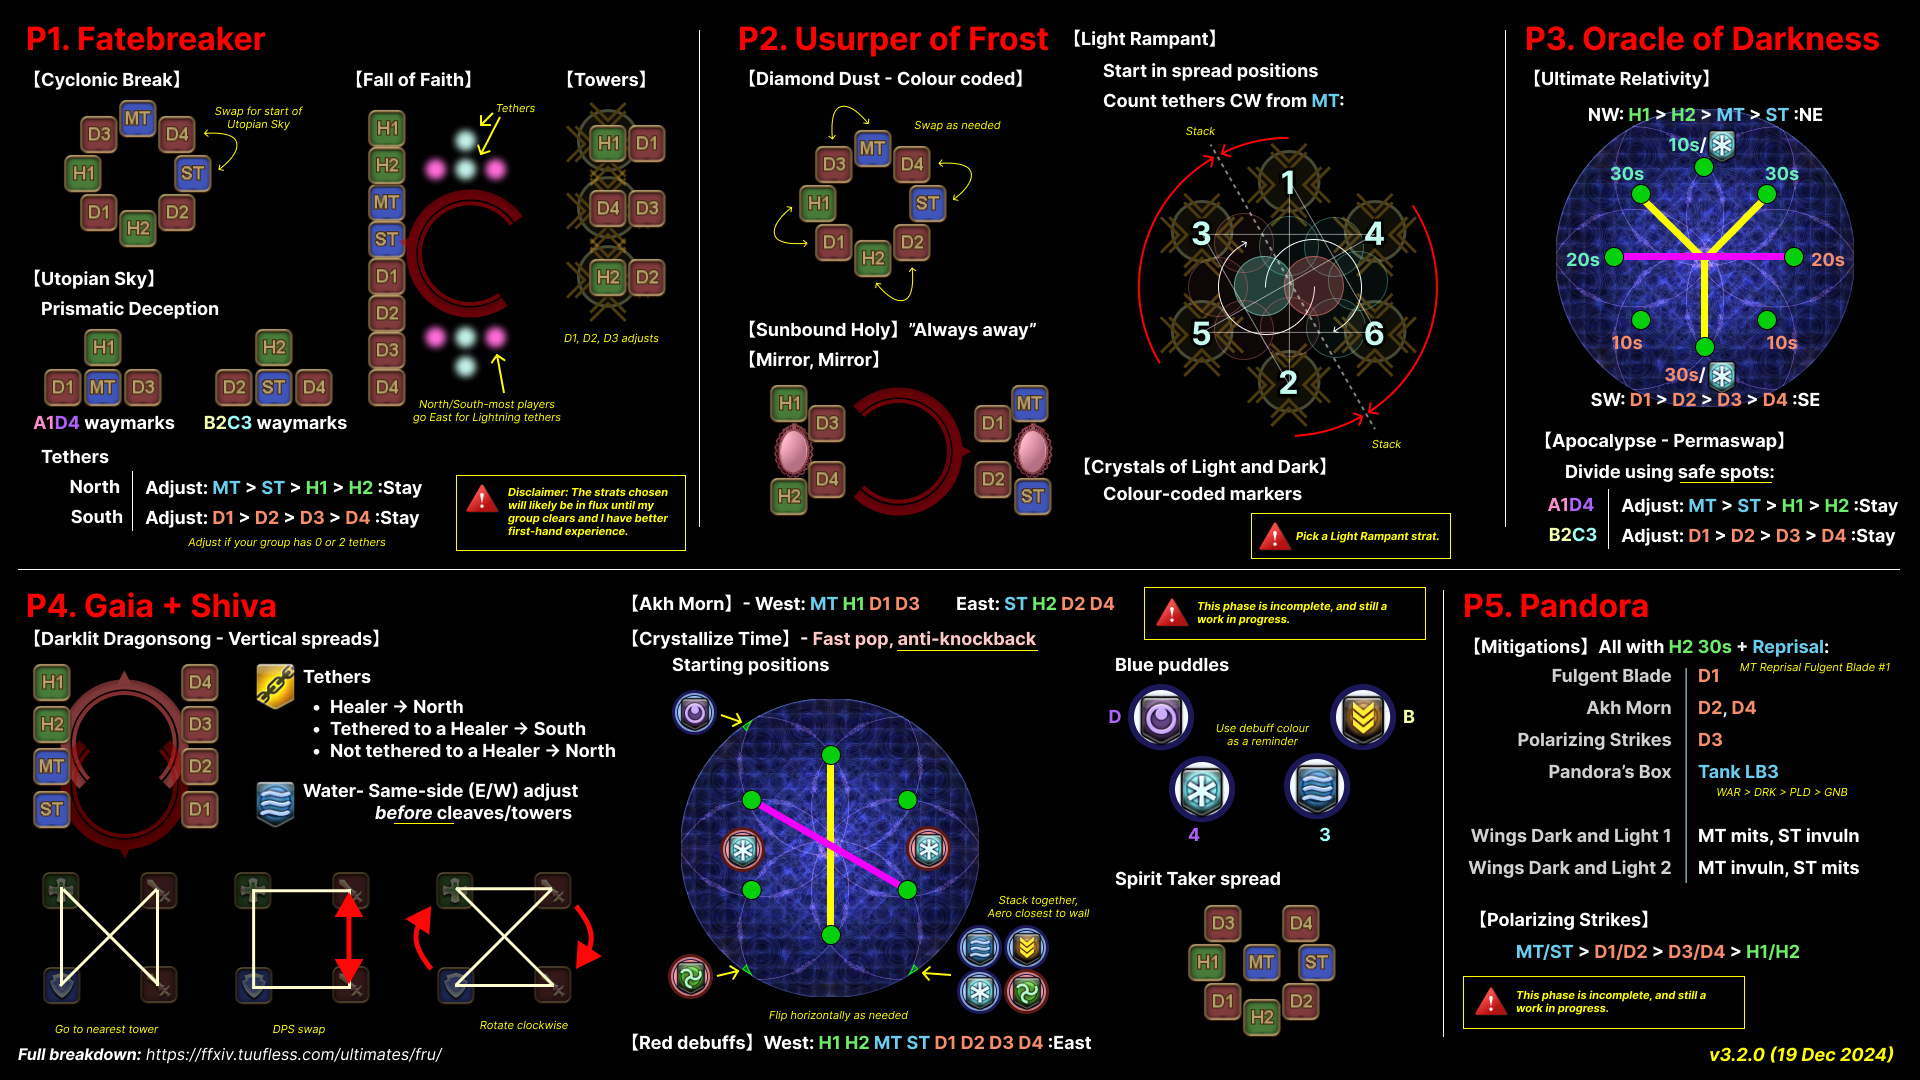
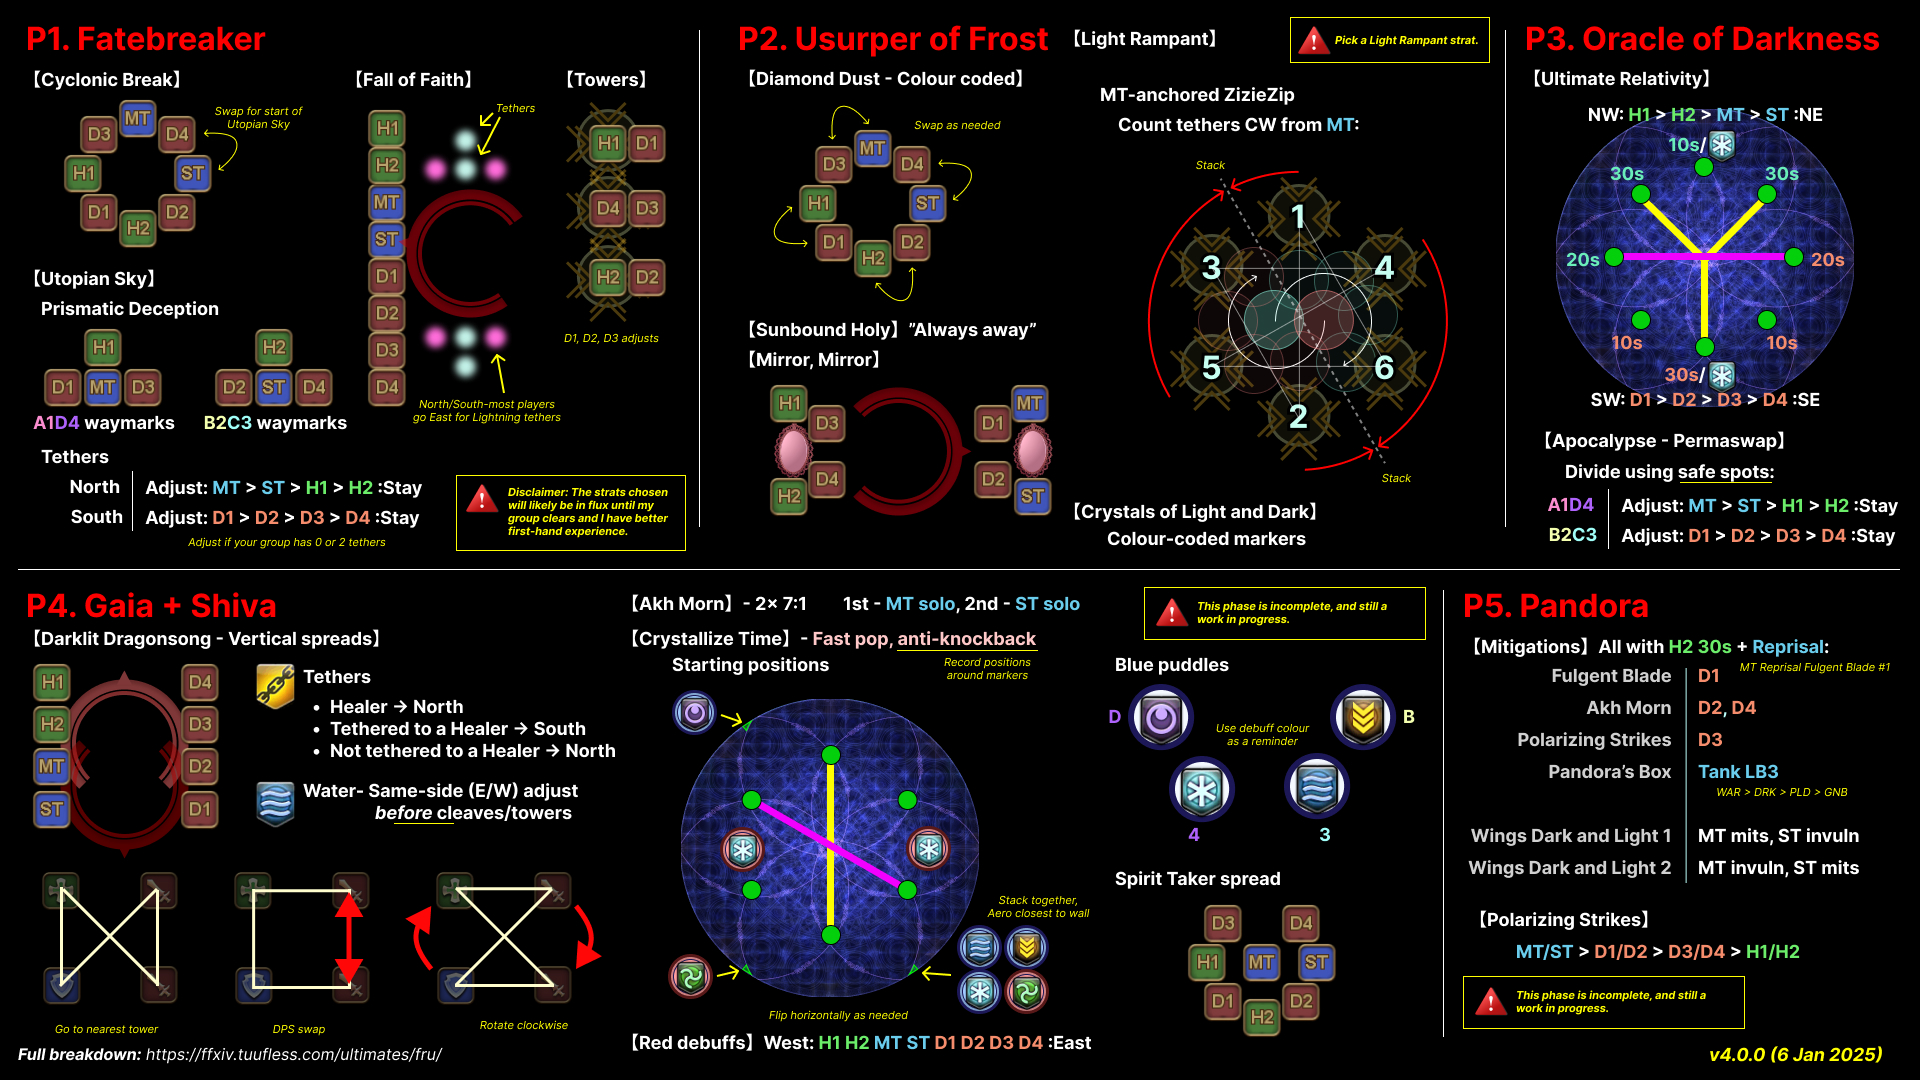
Add 7:1 Akh Morns

diff --git a/_ultimates/fru/04_gaia_and_shiva.md b/_ultimates/fru/04_gaia_and_shiva.md
@@ -1,6 +1,6 @@
 ---
 layout: default
-title: 4. Gaia and Shiva (WIP)
+title: 4. Gaia and Shiva v1.0
 parent: Lv 100. FRU (WIP)
 nav_order: 4
 has_children: false
@@ -8,10 +8,10 @@ has_toc: false
 permalink: /ultimates/fru/04_gaia_and_shiva/
 ---
 
-# Gaia and Shiva (WIP)
+# Gaia and Shiva v1.0
 
 This is version 1.0, that uses the vertical spread *Darklit Dragonsong* strat,
-and anti-KB for *Crystallize Time*.
+and anti-KB for *Crystallize Time* with 2x 7:1 Akh Morn stacks.
 
 <div style="background-color: #200 ; padding: 10px; border: 1px solid;">
 <p style="text-align:center"><b>Details may be missing, or subject to change
@@ -19,7 +19,9 @@ until I have better first-hand experience.</b></p>
 </div>
 
 - [**Darklit Dragonsong - Vertical spreads**](#darklit-dragonsong---vertical-spreads)
+- [**Akh Morn 1 - 7:1 MT solo**](#akh-morn-1---71-mt-solo)
 - [**Crystallize Time - fast pop, anti-kb**](#crystallize-time---fast-pop-anti-kb)
+- [**Akh Morn 2 - 7:1 ST solo**](#akh-morn-2---71-st-solo)
 - [**Frequently Asked Questions**](#frequently-asked-questions)
 
 The Usurper of Frost will respawn at either North or South, whichever is
@@ -249,6 +251,8 @@ We can now continue with the mechanic.
   </tr>
 </table>
 
+## Akh Morn 1 - 7:1 (MT solo)
+
 The two bosses will then teleport a bit West and East of the center for *Akh
 Morn* into *Morn Afah*.
 
@@ -257,9 +261,15 @@ Morn* into *Morn Afah*.
     <td width="50%">
       <p><b>12.</b> The two bosses target whoever has their hate with a 4-hit
       <em>Akh Morn</em> (which should be their respective tanks).</p>
+      <p>However, a tank can mitigate this to lower the damage on the party-
+      for this first <em>Akh Morn</em>, we have the MT split off.</p>
       <ul>
-        <li><b>West:</b> MT, H1, D1, D3 <em>(under Usurper of Frost)</em></li>
-        <li><b>East:</b> ST, H2, D2, D4 <em>(under Oracle of Darkness)</em></li>
+        <li>Done this way, each <em>Akh Morn</em> hit deals roughly 175k damage 
+        to the solo tank.</li>
+        <li>This is doable <em>without</em> using the 40% mitigation- the
+        tradeoff is that the 40% mitigation will not be available during 
+        <em>Crystallize Time</em> to act as a buffer for any errors.</li>
+        <li>Co-tank and targeted healer mitigations obviously help.</li>
       </ul>
     </td>
     <td>
@@ -615,13 +625,27 @@ the sea of mechanics.
   </tr>
 </table>
 
-The two bosses will reappear around the center of the arena and immediately 
-start another 4-hit *Akh Morn* into *Morn Afah* sequence (where the two bosses 
-have to be within 5% HP of each other).
+## Akh Morn 2 - 7:1 (ST solo)
 
-Note that if things are looking bad, *Morn Afah* comes from the Usurper of
-Frost, so the MT can sacrifice themselves and take it away from the party if
-needed.
+The two bosses will reappear around the center of the arena and immediately 
+start another 4-hit *Akh Morn* into *Morn Afah* sequence.
+
+<table>
+  <tr>
+    <td width="50%">
+      <p><b>27.</b> The two bosses target whoever has their hate with a 4-hit
+      <em>Akh Morn</em> (which should be their respective tanks).</p>
+      <p>This time, we have the ST split off and take it solo.</p>
+    </td>
+    <td>
+      <img src="{{site.baseurl}}/images/ultimates/fru/04/akh_morn_02.jpg">
+    </td>
+  </tr>
+</table>
+
+Remember that two bosses have to be within 5% HP of each other for *Morn Afah*.
+If things are looking bad, *Morn Afah* comes from the Usurper of Frost, so the
+MT can sacrifice themselves and take it away from the party if needed.
 
 Both bosses will then start casting their respective enrages (*Absolute Zero*
 and *Memory's End*).

diff --git a/_ultimates/fru/index.en.md b/_ultimates/fru/index.en.md
@@ -13,11 +13,12 @@ My FRU strat is currently a **work in progress**.
 
 <div style="padding: 10px; border: 1px solid;">
 <ul>
-  <li><b>Current version: v3.2.0</b>
+  <li><b>Current version: v4.0.0</b>
     <ul>
       <li>Fatebreaker: v2.0.0</li>
       <li>Usurper of Frost: v3.2.0</li>
       <li>Oracle of Darkness: v1.1.0</li>
+      <li>Gaia and Shiva: v1.0</li>
     </ul>
   </li>
 </ul>

diff --git a/_ultimates/fru/05_pandora.md b/_ultimates/fru/05_pandora.md
@@ -8,7 +8,7 @@ has_toc: false
 permalink: /ultimates/fru/05_pandora/
 ---
 
-# Pandora (WIP)
+# Pandora v1.0
 
 <div style="background-color: #200 ; padding: 10px; border: 1px solid;">
 <p style="text-align:center"><b>Details may be missing, or subject to change until I have better first-hand experience.</b></p>
